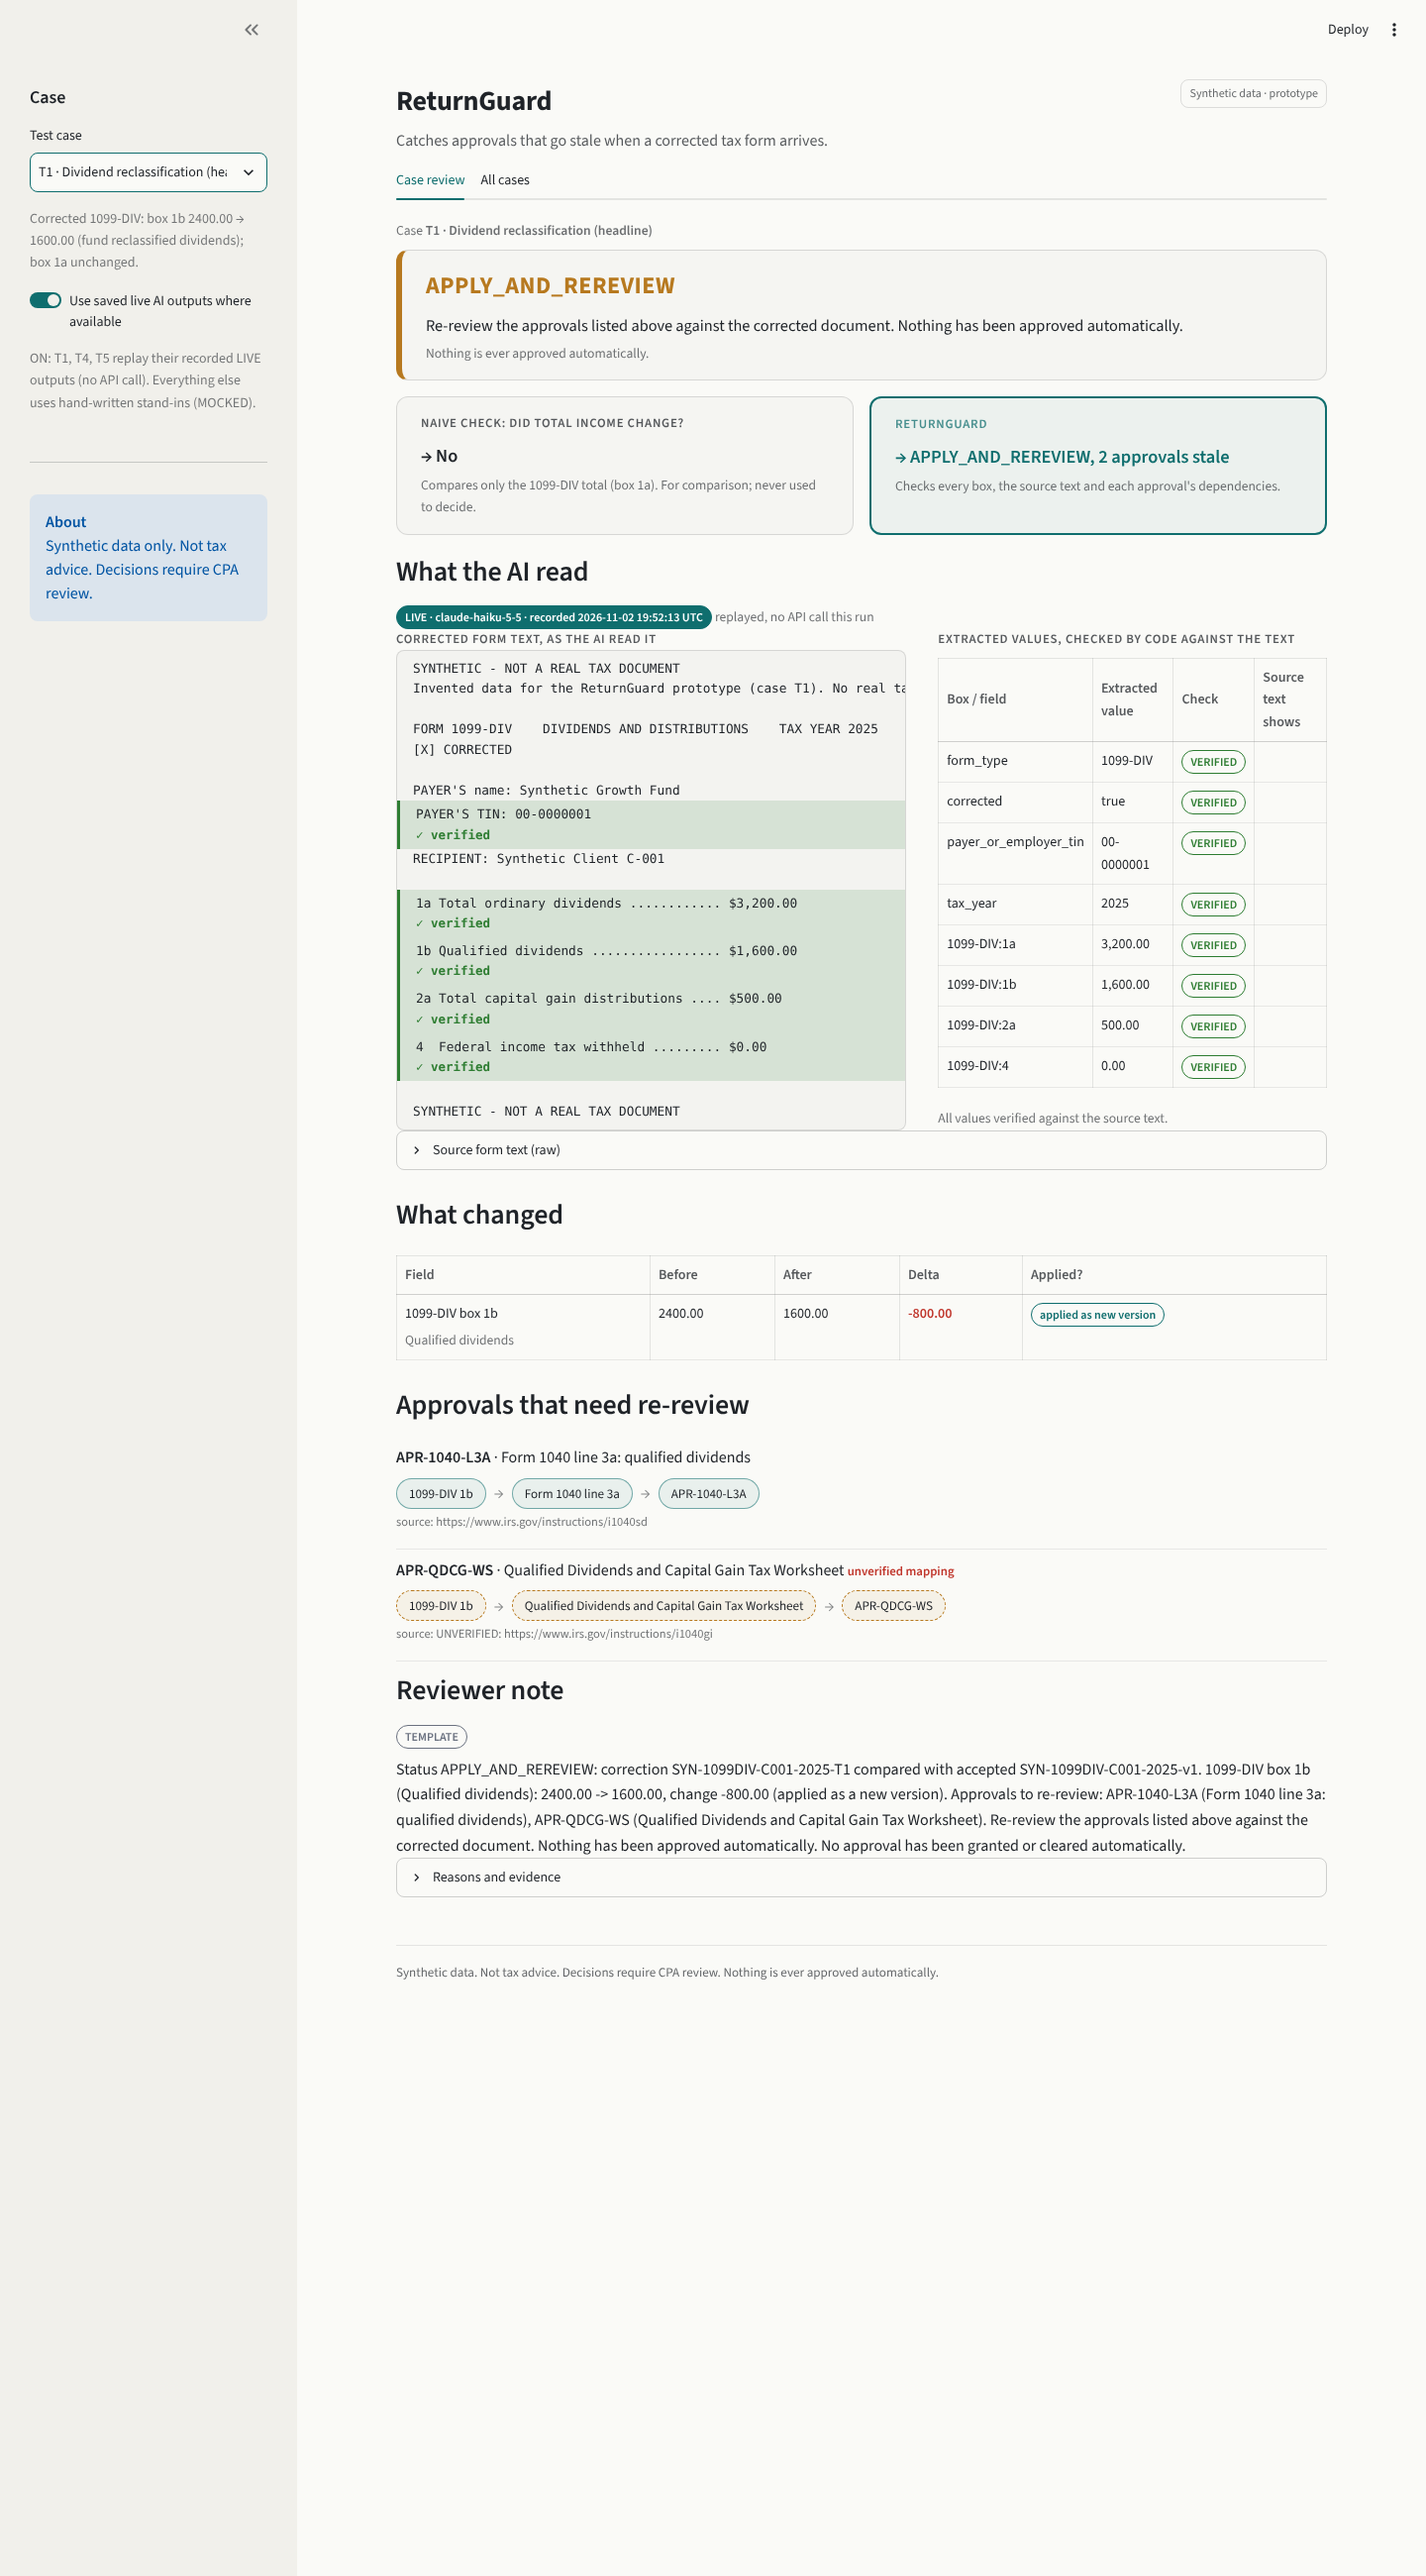
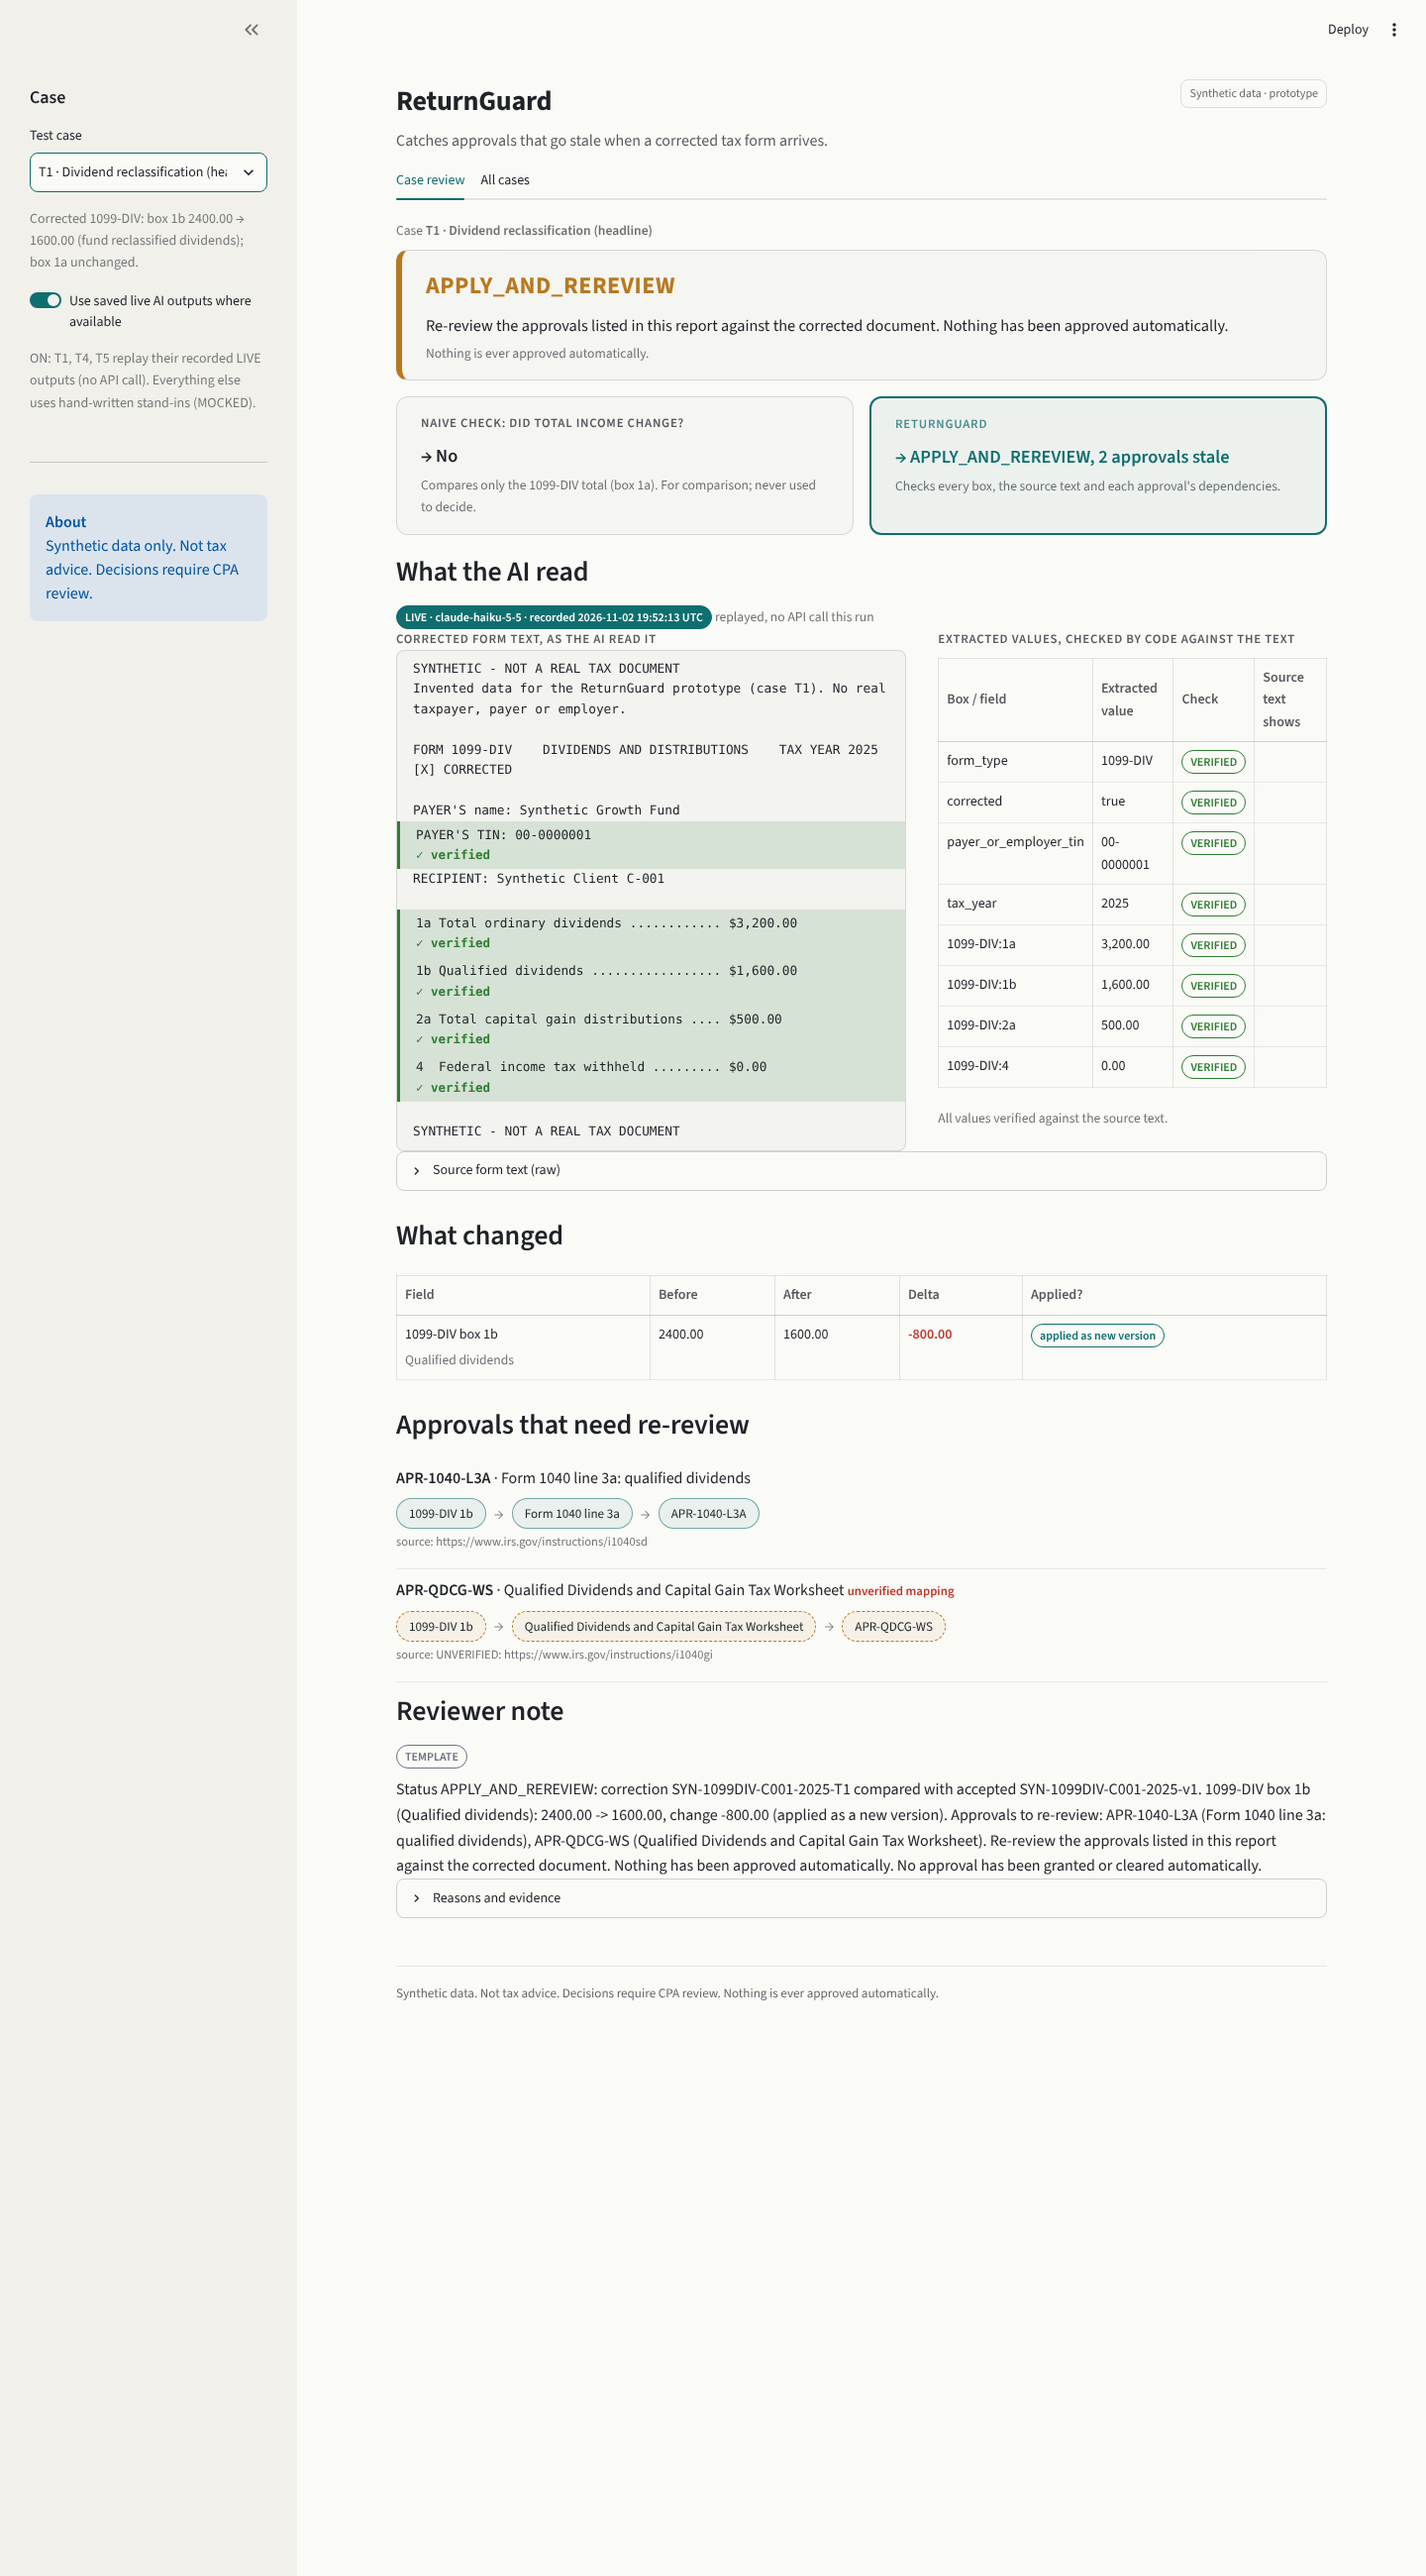
Session 5b: README (PST time log, 341 tests, UI never calls the API), HANDOFF, T1/T12 screenshots
Claude-Session: https://claude.ai/code/session_01XsBWQqM2StcHi4bS8uhMHN

diff --git a/README.md b/README.md
@@ -111,7 +111,7 @@ returnguard/
   explain.py               reviewer note + number-grounding check
 data/synthetic/            SYNTHETIC inputs: accepted docs, return state, cases/T1-T15.json, raw/*.txt
 data/llm_cache/            AI outputs: *.json (MOCKED stand-ins), *.live.json (LIVE recordings)
-tests/                     pytest (339 tests)
+tests/                     pytest (341 tests)
 .streamlit/config.toml     UI theme
 docs/                      brief, project plan, v1 memo, screenshots
 ```
@@ -236,9 +236,10 @@ T15   SPECIALIST_REVIEW                        SPECIALIST_REVIEW                
 | T14 | No-op | Corrected, all values identical |
 | T15 | Unknown field | 1099-DIV box 7 changes |
 
-`python3 -m pytest -q` (real run, Session 5): **`339 passed in 6.35s`**. This includes `tests/test_app_smoke.py`,
+`python3 -m pytest -q` (real run, Session 5b): **`341 passed in 7.74s`**. This includes `tests/test_app_smoke.py`,
 which loads `app.py` with Streamlit's `AppTest`, selects T1, T12, T5, T3 and T13, and checks every case renders
-its expected status and the All cases tab shows 15 of 15.
+its expected status and the All cases tab shows 15 of 15. It also checks that the UI never calls the API, even with `RETURNGUARD_LLM=live` and a key set
+(the live call is patched to fail and every page still renders).
 
 ## 8. Live AI run
 
@@ -271,8 +272,8 @@ python3 cli.py --from-text data/synthetic/raw/T1.txt --case T1
 `RETURNGUARD_LLM_MODEL` is optional (default `claude-haiku-5-5`). A live run overwrites `data/llm_cache/T1.live.json`;
 the MOCKED files are never touched. **Temperature is not sent**: Claude Haiku 5.5 rejects non-default
 `temperature`/`top_p`/`top_k` with HTTP 400. Consistency comes from the fixed prompt and schema, the schema check,
-and code verification of every value against the source text. If live mode is set in the environment when the UI
-runs, the sidebar shows a warning, because text cases will then call the API.
+and code verification of every value against the source text. **The UI never calls the API**: it always replays saved outputs (`mode="cached"`), even if live mode is set
+in the environment. Live runs are CLI-only.
 
 ## 9. Implemented / mocked / deferred
 
@@ -285,7 +286,7 @@ runs, the sidebar shows a warning, because text cases will then call the API.
 | Source check of every AI-extracted value | **Implemented** |
 | Number-grounding check of AI reviewer notes | **Implemented** |
 | Append-only audit log (CLI) | **Implemented** |
-| CLI + Streamlit UI + 339 tests | **Implemented** |
+| CLI + Streamlit UI + 341 tests | **Implemented** |
 | AI extraction for T1/T4/T5 | **LIVE** recorded outputs, replayed (no API call) |
 | AI extraction for T12, AI note for T13 | **MOCKED** (hand-written stand-ins) |
 | Return status (APPROVED / FILED) | **MOCKED** (entered by hand; labelled) |
@@ -311,7 +312,6 @@ runs, the sidebar shows a warning, because text cases will then call the API.
   - W-2 / W-2c box labels (`config/forms.yaml` header)
 - **Filing status is entered by hand** (labelled MOCKED); nothing tracks IRS acceptance.
 - Only direct dependencies are walked (no knock-on through total income / taxable income).
-- The NEXT ACTION text for APPLY_AND_REREVIEW says "approvals listed above"; in the UI they appear below it.
 
 ## 11. How AI was used and checked
 
@@ -323,24 +323,25 @@ runs, the sidebar shows a warning, because text cases will then call the API.
 - **Inside the product:** live LLM extraction was run on T1, T4 and T5 (`claude-haiku-5-5`). Every extracted
   value is checked by code against the source text line by line. The LLM cannot set a status (the schema has no
   such field). An AI-drafted note is accepted only if every number in it is a checked fact.
-- **Checking the AI's output:** 339 tests, including deliberate AI failures (T12 misread, T13 ungrounded note) and
+- **Checking the AI's output:** 341 tests, including deliberate AI failures (T12 misread, T13 ungrounded note) and
   a test that re-verifies every recorded live output against the raw text.
 - **Reused prior work:** none.
 
 ## 12. Time log
 
-Commit times (UTC) from `TZ=UTC git log --reverse --format='%h %ad %s' --date=format-local:'%H:%M'`. The first
-commit marks the build start. (The plain `--date=format` form shows the GitHub web merge of PR #1 as 11:03 in
-its -0800 zone; that is 19:03 UTC.)
+Commit times in Pacific time (PST, as git prints it) from
+`TZ=America/Los_Angeles git log --reverse --format='%h %ad %s' --date=format-local:'%H:%M %Z'`.
+The first commit marks the build start.
 
 | Phase | First commit | Last commit |
 | --- | --- | --- |
-| Setup: rules, brief, plan (build start) | 18:41 `33fde96` | 18:57 `bdb6e99` |
-| Session 1: skeleton, schemas, config, fixtures | 19:01 `7807988` | 19:03 `9979e40` (merge PR #1) |
-| Session 2: validate + impact | 19:15 `4f1234c` | 19:15 `902f2a4` |
-| Session 3: decide + audit + CLI | 19:28 `9c9cf9c` | 19:28 `cf17284` |
-| Session 4: extract + explain, follow-up, live run | 19:41 `cb6aba1` | 19:55 `1c4aebd` |
-| Session 5: UI + README | 20:05 `cd0255c` | 20:07 `d4e8b03` (README + HANDOFF; a one-line time-log fill follows) |
+| Setup: rules, brief, plan (build start) | 10:41 PST `33fde96` | 10:57 PST `bdb6e99` |
+| Session 1: skeleton, schemas, config, fixtures | 11:01 PST `7807988` | 11:03 PST `9979e40` (merge PR #1) |
+| Session 2: validate + impact | 11:15 PST `4f1234c` | 11:15 PST `902f2a4` |
+| Session 3: decide + audit + CLI | 11:28 PST `9c9cf9c` | 11:28 PST `cf17284` |
+| Session 4: extract + explain, follow-up, live run | 11:41 PST `cb6aba1` | 11:55 PST `1c4aebd` |
+| Session 5: UI + README | 12:05 PST `cd0255c` | 12:09 PST `30973e4` |
+| Session 5b: polish fixes | 12:23 PST `5735a04` | 12:24 PST (README + HANDOFF commit) |
 
 [RESEARCH AND MEMO TIME: filled in by Sakshi]
 

diff --git a/HANDOFF.md b/HANDOFF.md
@@ -6,6 +6,62 @@
 > `docs/brief.docx` and `docs/memo_v1.pdf` (named in CLAUDE.md) are intentionally absent from the repo.
 > Ignore them: `docs/brief.md` and `docs/project_plan.md` are the sources of truth.
 
+## Status after Session 5b (polish fixes). Date: 2026-11-02
+Branch: `returnguard/session-5b-polish` (from origin/main 30973e4), merged into `main`. Commits as `sakshiasati17`.
+
+### Done (each approved by Sakshi before coding)
+1. **Next-action wording**: `decide.NEXT_ACTION[APPLY_AND_REREVIEW]` now reads "Re-review the approvals listed in this
+   report against the corrected document. ..." (string only). `tests/test_cli.py` assertion updated to the new
+   wording (only the quoted string changed, no expected status/value). README limitation line removed.
+2. **T12/T13 fixtures** (labels and paths only, no values or expected results changed):
+   T12 description "AI misread: extraction says 1b 1060.00, form text says 1600.00", `llm_cache.extraction` ->
+   `data/llm_cache/T12.json`; T13 description "Ungrounded AI reviewer note containing a number not in the checked
+   facts" (`llm_cache.note` was already `data/llm_cache/T13_note.json`); both `llm_cache.status` ->
+   "MOCKED: hand-written stand-in". `models.py`: the one stale comment above `CaseFixture.llm_cache` reworded
+   (comment only, approved). The sidebar's PLACEHOLDER-hiding workaround in app.py is removed.
+3. **UI never calls the API**: `cli.run_text_case(..., mode=None)` and `cli.run_all(config, log, mode=None)` gained an
+   optional `mode` passed through to `extract()`. Default `None` = unchanged CLI behaviour. `app.py` always passes
+   `mode="cached"` (with `use_live_cache` from the toggle, so LIVE recordings still replay). The UI live-mode warning
+   is removed. **Note:** `run_all` needed the argument too. The new test first FAILED with only `run_text_case`
+   changed, because the All cases tab runs T12 through `run_all` -> `run_text_case` with the default mode, which would
+   have called the API in live mode. Fixed by the same passthrough.
+   New test `test_app_never_calls_the_api_even_in_live_mode`: sets `RETURNGUARD_LLM=live` + a dummy key, asserts
+   `live_enabled()` is True, patches `extract._call_live` to raise, then renders T1 (toggle ON -> LIVE replay, OFF ->
+   MOCKED) and T12; all render with the expected status. Plus `test_fixture_descriptions_have_no_placeholder`.
+4. **Form-text panel wraps** (`white-space: pre-wrap; overflow-wrap: anywhere`, no `overflow-x`). Checked in Chromium at
+   1100px width: panel scrollWidth == clientWidth (344 == 344), no sideways scroll.
+5. **README time log in Pacific time**, as git prints it (`PST`; DST ended 2026-11-01), from
+   `TZ=America/Los_Angeles git log ... --date=format-local:'%H:%M %Z'`. First commit 10:41 PST (git's time: 18:41:40 UTC).
+   Research/total placeholders kept. README test counts updated to 341 and the live-safety statement added.
+6. Screenshots retaken: `T1.png`, `T1_above_fold.png`, `T12.png` (page text changed). `T5.png` and `all_cases.png`
+   unchanged (nothing visible changed on them).
+
+### pytest -q (real output, Session 5b, after committing the code + fixture changes)
+```
+........................................................................ [ 21%]
+........................................................................ [ 42%]
+........................................................................ [ 63%]
+........................................................................ [ 84%]
+.....................................................                    [100%]
+341 passed in 7.74s
+```
+Before committing, `test_fixture_files_untouched_after_run` failed only because the approved T12/T13 edits were still
+uncommitted (it checks `git status` of `data/`); it passes on the committed tree. `python3 cli.py --all`: all 15 rows
+`match`, exit 0. Headless app served HTTP 200; T1 next action shows the new wording, T12 sidebar shows the new description.
+
+### Known issues (still open)
+1. Abbreviated box labels won't verify (fails safe); note check checks numbers, not direction; IRS mappings listed in
+   README still UNVERIFIED; filing status entered by hand. (Unchanged.)
+2. Streamlit prints "missing ScriptRunContext" warnings when helpers run outside `streamlit run` (harmless).
+3. GitHub default branch: `returnguard-setup` was brought up to date with `main` via PR #5 (merged), but `main` is
+   still not the default. Sakshi: Settings -> General -> Default branch -> `main`.
+Session 5 known issues 1-4 (wording, PLACEHOLDER text, UI live calls, sideways scroll) are resolved above.
+
+### Next: Session 6
+Fresh-eyes review from a clean clone -> `REVIEW.md` (report only, no code fixes).
+
+---
+
 ## Status after Session 5 (app.py Streamlit UI + README). Date: 2026-11-02
 Branch: `returnguard/session-5-ui-readme` (from origin/main 1c4aebd), merged into `main`. Commits as `sakshiasati17`.
 The cloud session's auto-assigned `claude/sweet-carson-qi1ewb` branch was NOT used. **No file under `returnguard/`,
